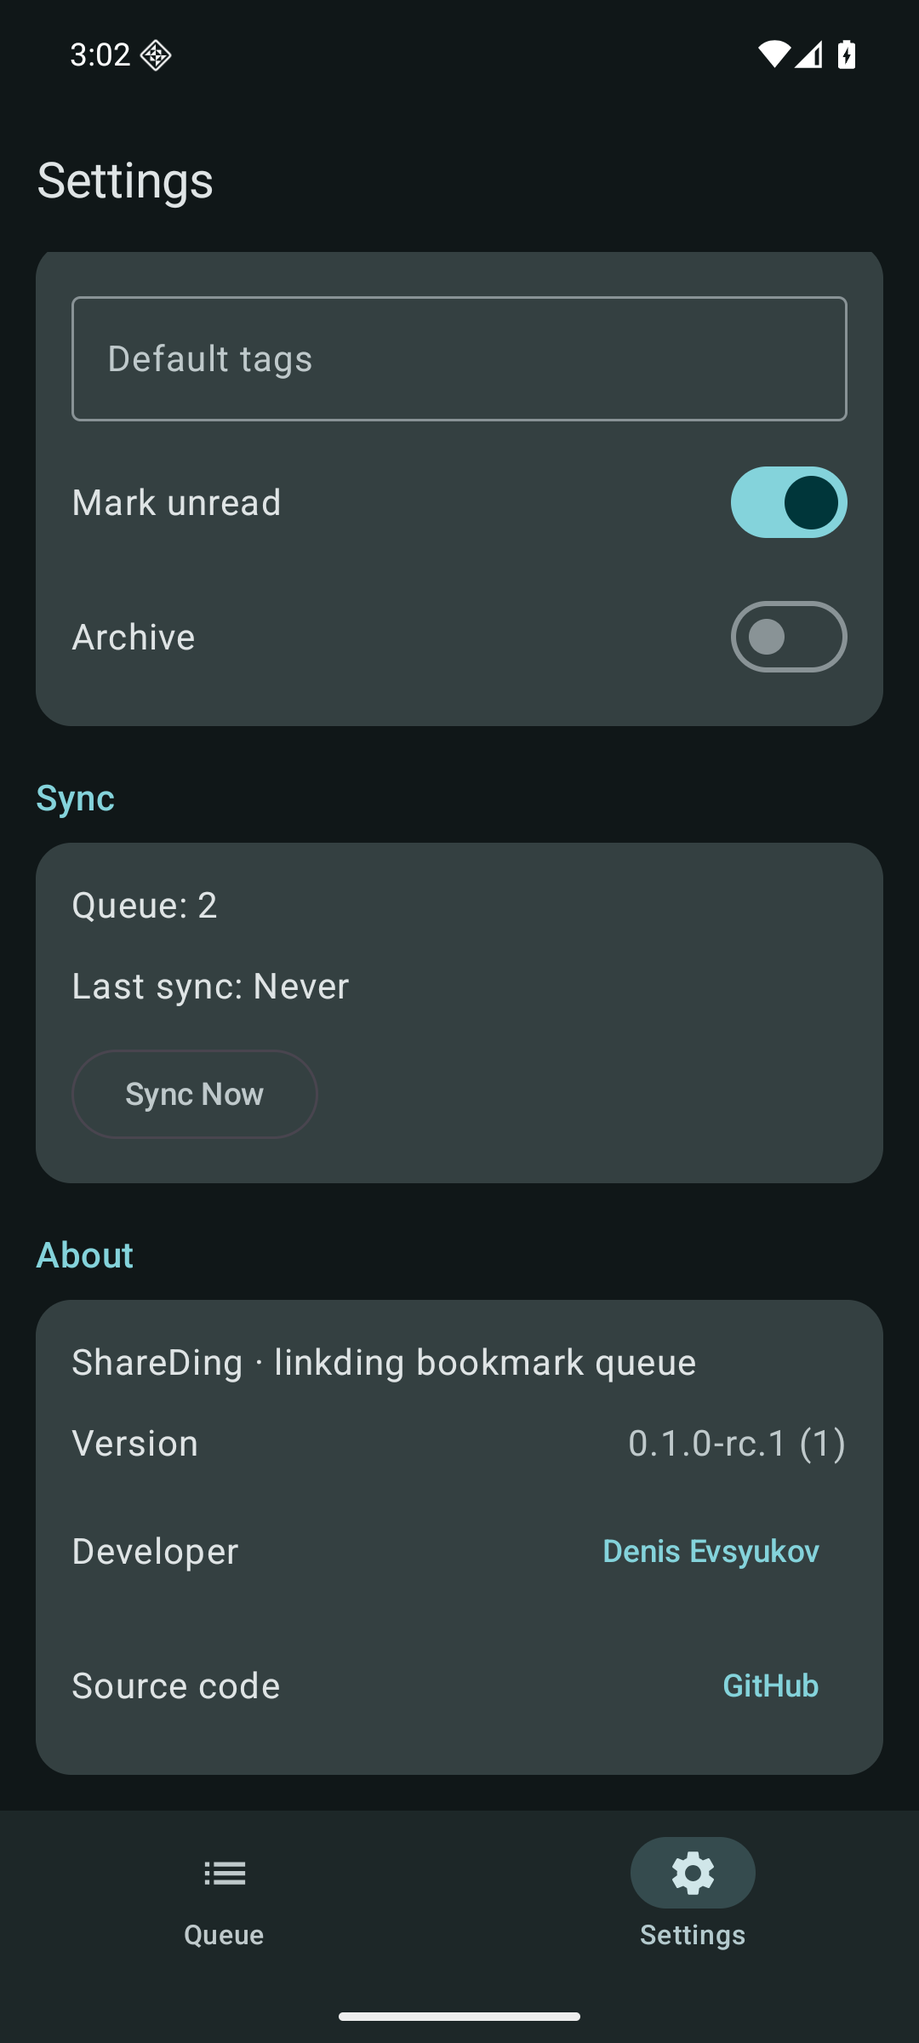
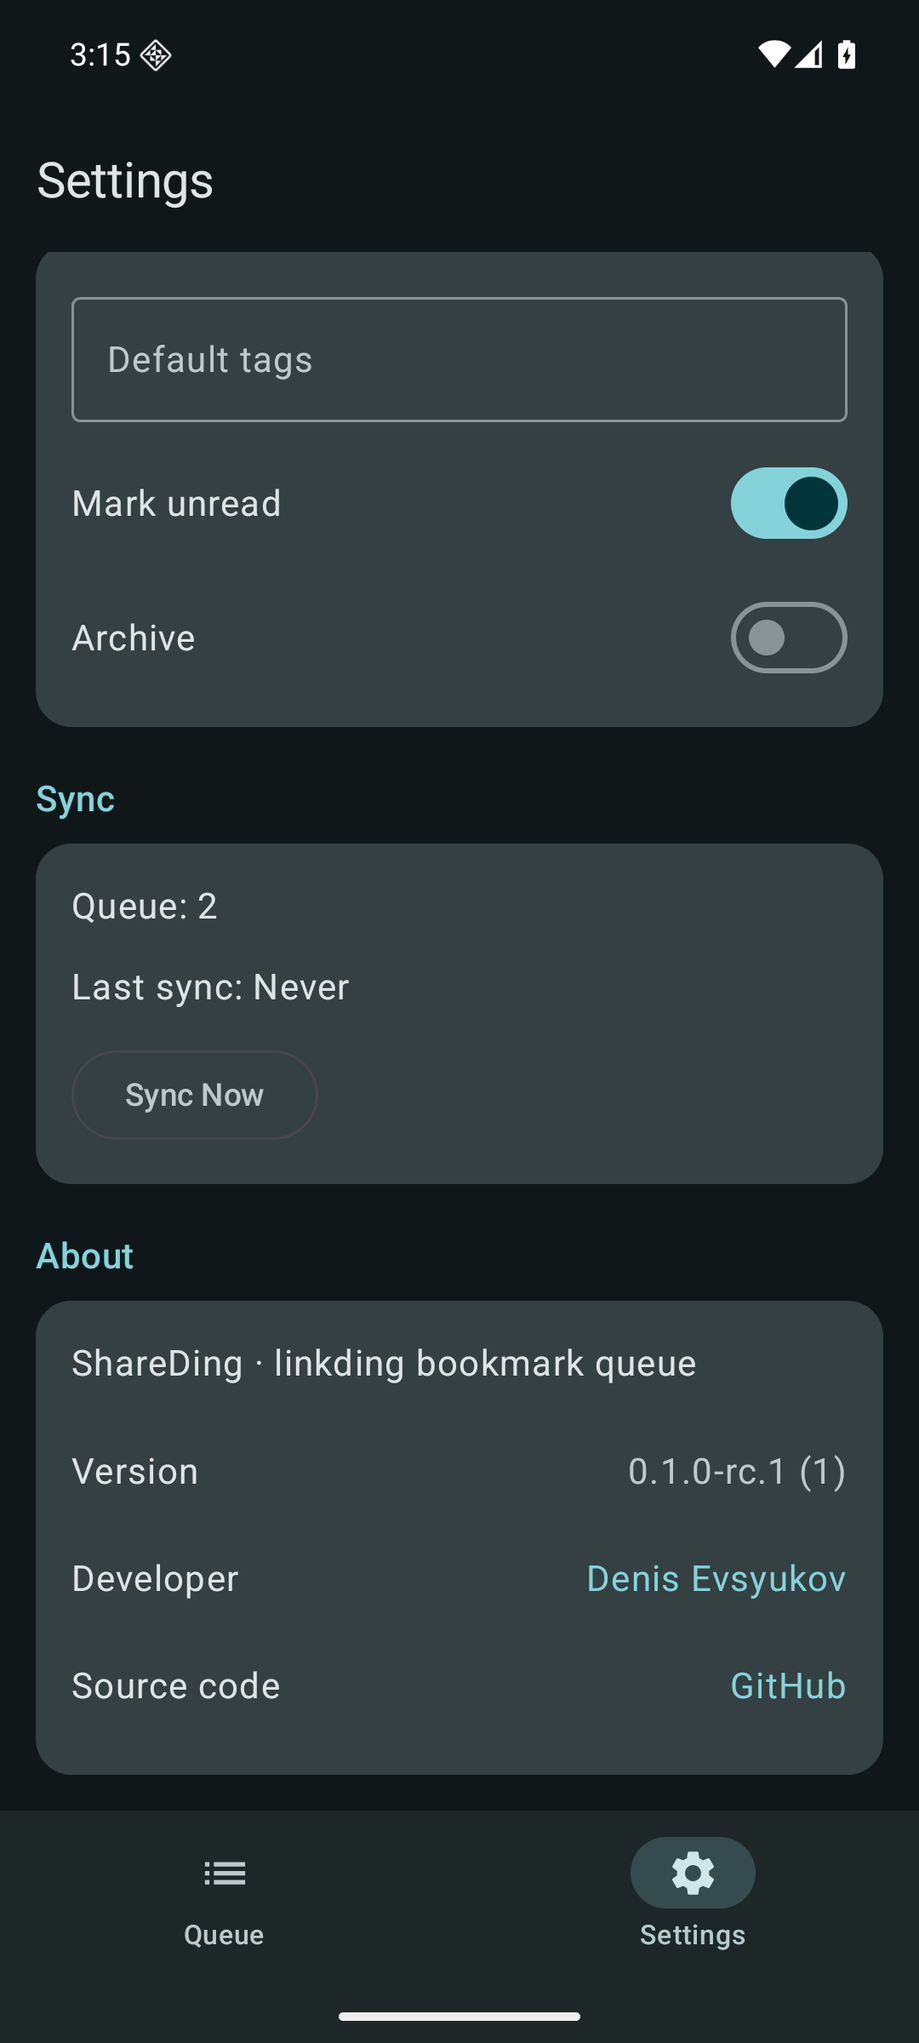
feat(share): save links without opening app screen
Route text shares to a translucent activity that shows a Toast after
saving to the local queue and returns to the sending app. Preserve URL
handling from both text and stream extras.

Tighten the About rows, refresh its screenshot, and document the Share
flow in the README and specification. Cover Share target resolution,
persistence, invalid input, stream URLs, and About spacing in UI tests.

diff --git a/app/src/main/java/org/evsyukov/shareding/MainActivity.kt b/app/src/main/java/org/evsyukov/shareding/MainActivity.kt
@@ -1,17 +1,14 @@
 package org.evsyukov.shareding
 
 import android.content.Context
-import android.content.Intent
 import android.net.ConnectivityManager
 import android.net.Network
 import android.os.Bundle
 import android.text.format.DateUtils
-import android.view.HapticFeedbackConstants
 import android.widget.Toast
 import androidx.activity.compose.BackHandler
 import androidx.activity.ComponentActivity
 import androidx.activity.compose.setContent
-import androidx.compose.foundation.Image
 import androidx.compose.foundation.isSystemInDarkTheme
 import androidx.compose.foundation.rememberScrollState
 import androidx.compose.foundation.layout.Arrangement
@@ -22,12 +19,14 @@ import androidx.compose.foundation.layout.Spacer
 import androidx.compose.foundation.layout.fillMaxSize
 import androidx.compose.foundation.layout.fillMaxWidth
 import androidx.compose.foundation.layout.height
+import androidx.compose.foundation.layout.heightIn
 import androidx.compose.foundation.layout.imePadding
 import androidx.compose.foundation.layout.padding
 import androidx.compose.foundation.layout.size
 import androidx.compose.foundation.lazy.LazyColumn
 import androidx.compose.foundation.lazy.items
 import androidx.compose.foundation.shape.RoundedCornerShape
+import androidx.compose.foundation.clickable
 import androidx.compose.foundation.verticalScroll
 import androidx.compose.material.icons.Icons
 import androidx.compose.material.icons.automirrored.filled.List
@@ -71,12 +70,9 @@ import androidx.compose.ui.Alignment
 import androidx.compose.ui.Modifier
 import androidx.compose.ui.platform.LocalContext
 import androidx.compose.ui.platform.LocalUriHandler
-import androidx.compose.ui.res.painterResource
 import androidx.compose.ui.text.style.TextOverflow
 import androidx.compose.ui.unit.dp
-import androidx.lifecycle.lifecycleScope
 import androidx.core.view.WindowCompat
-import androidx.core.content.IntentCompat
 import java.text.DateFormat
 import java.util.Date
 import kotlinx.coroutines.Dispatchers
@@ -93,7 +89,6 @@ import org.evsyukov.shareding.sync.NetworkRequests
 
 class MainActivity : ComponentActivity() {
     private val container get() = (application as ShareDingApplication).container
-    private var shareMessage by mutableStateOf<String?>(null)
     private val connectivity by lazy { getSystemService(Context.CONNECTIVITY_SERVICE) as ConnectivityManager }
     @Volatile private var networksAtRegistration: Set<Network> = emptySet()
     private val networkCallback = object : ConnectivityManager.NetworkCallback() {
@@ -113,18 +108,9 @@ class MainActivity : ComponentActivity() {
                 }
             }
             ShareDingTheme {
-                val message = shareMessage
-                if (message != null) ShareConfirmation(message)
-                else ShareDingScreen(container)
+                ShareDingScreen(container)
             }
         }
-        if (intent?.action == Intent.ACTION_SEND && savedInstanceState == null) handleShare(intent)
-    }
-
-    override fun onNewIntent(intent: Intent) {
-        super.onNewIntent(intent)
-        setIntent(intent)
-        if (intent.action == Intent.ACTION_SEND) handleShare(intent)
     }
 
     override fun onStart() {
@@ -138,46 +124,6 @@ class MainActivity : ComponentActivity() {
         super.onStop()
     }
 
-    private fun handleShare(intent: Intent) {
-        val text = intent.getStringExtra(Intent.EXTRA_TEXT)
-            ?: IntentCompat.getParcelableExtra(intent, Intent.EXTRA_STREAM, android.net.Uri::class.java)
-                ?.toString().orEmpty()
-        val title = intent.getStringExtra(Intent.EXTRA_TITLE)
-            ?: intent.getStringExtra(Intent.EXTRA_SUBJECT).orEmpty()
-        val url = Urls.sharedText(text)
-        if (url == null) {
-            shareMessage = "No valid HTTP(S) URL"
-            lifecycleScope.launch { kotlinx.coroutines.delay(1400); finish() }
-            return
-        }
-        lifecycleScope.launch {
-            try {
-                val defaults = container.settings.state.value
-                val id = withContext(Dispatchers.IO) {
-                    container.db.bookmarks().insert(Bookmark(url = url, title = title, tags = defaults.defaultTags,
-                        unread = defaults.unread, archived = defaults.archived))
-                }
-                shareMessage = if (id == -1L) "Already in queue" else "Saved to queue"
-                if (id != -1L) window.decorView.performHapticFeedback(HapticFeedbackConstants.VIRTUAL_KEY)
-                runCatching { container.scheduler.enqueue(urgent = true) }
-            } catch (error: Exception) {
-                shareMessage = "Cannot save: ${error.message}"
-            }
-            kotlinx.coroutines.delay(1000)
-            finish()
-        }
-    }
-}
-
-@Composable
-private fun ShareConfirmation(message: String) {
-    Column(Modifier.fillMaxSize(), verticalArrangement = Arrangement.Center,
-        horizontalAlignment = Alignment.CenterHorizontally) {
-        Image(painterResource(R.mipmap.ic_launcher), contentDescription = null,
-            modifier = Modifier.size(96.dp))
-        Spacer(Modifier.height(16.dp))
-        Text(message, style = MaterialTheme.typography.titleLarge)
-    }
 }
 
 @OptIn(ExperimentalMaterial3Api::class)
@@ -529,23 +475,26 @@ private fun SettingsScreen(settings: Settings, queueCount: Int, padding: Padding
         item {
             SettingsGroup("About") {
                 Text("ShareDing · linkding bookmark queue")
-                Row(Modifier.fillMaxWidth(), verticalAlignment = Alignment.CenterVertically,
-                    horizontalArrangement = Arrangement.SpaceBetween) {
-                    Text("Version")
-                    Text(version, color = MaterialTheme.colorScheme.onSurfaceVariant)
-                }
-                Row(Modifier.fillMaxWidth(), verticalAlignment = Alignment.CenterVertically,
-                    horizontalArrangement = Arrangement.SpaceBetween) {
-                    Text("Developer")
-                    TextButton(onClick = { uriHandler.openUri("https://denis.evsyukov.org") }) {
-                        Text("Denis Evsyukov")
+                Column {
+                    Row(Modifier.fillMaxWidth().heightIn(min = 48.dp),
+                        verticalAlignment = Alignment.CenterVertically,
+                        horizontalArrangement = Arrangement.SpaceBetween) {
+                        Text("Version")
+                        Text(version, color = MaterialTheme.colorScheme.onSurfaceVariant)
                     }
-                }
-                Row(Modifier.fillMaxWidth(), verticalAlignment = Alignment.CenterVertically,
-                    horizontalArrangement = Arrangement.SpaceBetween) {
-                    Text("Source code")
-                    TextButton(onClick = { uriHandler.openUri("https://github.com/juev/shareding") }) {
-                        Text("GitHub")
+                    Row(Modifier.fillMaxWidth().heightIn(min = 48.dp)
+                        .clickable { uriHandler.openUri("https://denis.evsyukov.org") },
+                        verticalAlignment = Alignment.CenterVertically,
+                        horizontalArrangement = Arrangement.SpaceBetween) {
+                        Text("Developer")
+                        Text("Denis Evsyukov", color = MaterialTheme.colorScheme.primary)
+                    }
+                    Row(Modifier.fillMaxWidth().heightIn(min = 48.dp)
+                        .clickable { uriHandler.openUri("https://github.com/juev/shareding") },
+                        verticalAlignment = Alignment.CenterVertically,
+                        horizontalArrangement = Arrangement.SpaceBetween) {
+                        Text("Source code")
+                        Text("GitHub", color = MaterialTheme.colorScheme.primary)
                     }
                 }
             }

diff --git a/app/src/androidTest/java/org/evsyukov/shareding/ShareIntentTest.kt b/app/src/androidTest/java/org/evsyukov/shareding/ShareIntentTest.kt
@@ -1,36 +1,87 @@
 package org.evsyukov.shareding
 
 import android.content.Intent
-import androidx.test.core.app.ActivityScenario
+import android.content.pm.PackageManager
+import android.net.Uri
 import androidx.test.ext.junit.runners.AndroidJUnit4
 import androidx.test.platform.app.InstrumentationRegistry
 import kotlinx.coroutines.delay
 import kotlinx.coroutines.runBlocking
 import org.junit.Assert.assertEquals
+import org.junit.Assert.assertNull
+import org.junit.Assert.assertTrue
 import org.junit.Test
 import org.junit.runner.RunWith
 
 @RunWith(AndroidJUnit4::class)
 class ShareIntentTest {
+    @Test fun appearsInTextShareTargets() {
+        val context = InstrumentationRegistry.getInstrumentation().targetContext
+        val intent = Intent(Intent.ACTION_SEND).apply { type = "text/plain" }
+        @Suppress("DEPRECATION")
+        val targets = context.packageManager.queryIntentActivities(intent, PackageManager.MATCH_DEFAULT_ONLY)
+        assertTrue(targets.any { it.activityInfo.packageName == context.packageName &&
+            it.activityInfo.name == ShareActivity::class.java.name })
+    }
+
     @Test fun sharePersistsWithoutServerConfiguration() = runBlocking {
         val context = InstrumentationRegistry.getInstrumentation().targetContext
         val url = "https://example.com/test-${System.nanoTime()}"
-        val intent = Intent(context, MainActivity::class.java).apply {
+        val intent = Intent(context, ShareActivity::class.java).apply {
             action = Intent.ACTION_SEND
             type = "text/plain"
             putExtra(Intent.EXTRA_TEXT, url)
+            addFlags(Intent.FLAG_ACTIVITY_NEW_TASK)
         }
-        ActivityScenario.launch<MainActivity>(intent).use {
-            val dao = (context.applicationContext as ShareDingApplication).container.db.bookmarks()
-            var found = false
-            for (attempt in 0 until 30) {
-                if (dao.findByUrl(url) != null) {
-                    found = true
-                    break
-                }
-                delay(100)
+        context.startActivity(intent)
+        val dao = (context.applicationContext as ShareDingApplication).container.db.bookmarks()
+        var found = false
+        for (attempt in 0 until 30) {
+            if (dao.findByUrl(url) != null) {
+                found = true
+                break
             }
-            assertEquals(true, found)
+            delay(100)
         }
+        assertTrue(found)
+    }
+
+    @Test fun invalidShareDoesNotEnterQueue() = runBlocking {
+        val context = InstrumentationRegistry.getInstrumentation().targetContext
+        val dao = (context.applicationContext as ShareDingApplication).container.db.bookmarks()
+        val invalid = "not-a-url-${System.nanoTime()}"
+        val countBefore = dao.count()
+        val intent = Intent(context, ShareActivity::class.java).apply {
+            action = Intent.ACTION_SEND
+            type = "text/plain"
+            putExtra(Intent.EXTRA_TEXT, invalid)
+            addFlags(Intent.FLAG_ACTIVITY_NEW_TASK)
+        }
+        context.startActivity(intent)
+        InstrumentationRegistry.getInstrumentation().waitForIdleSync()
+        assertEquals(countBefore, dao.count())
+        assertNull(dao.findByUrl(invalid))
+    }
+
+    @Test fun streamUrlStillEntersQueue() = runBlocking {
+        val context = InstrumentationRegistry.getInstrumentation().targetContext
+        val url = "https://example.com/stream-${System.nanoTime()}"
+        val intent = Intent(context, ShareActivity::class.java).apply {
+            action = Intent.ACTION_SEND
+            type = "text/plain"
+            putExtra(Intent.EXTRA_STREAM, Uri.parse(url))
+            addFlags(Intent.FLAG_ACTIVITY_NEW_TASK)
+        }
+        context.startActivity(intent)
+        val dao = (context.applicationContext as ShareDingApplication).container.db.bookmarks()
+        var found = false
+        for (attempt in 0 until 30) {
+            if (dao.findByUrl(url) != null) {
+                found = true
+                break
+            }
+            delay(100)
+        }
+        assertTrue(found)
     }
 }

diff --git a/app/src/main/java/org/evsyukov/shareding/ShareActivity.kt b/app/src/main/java/org/evsyukov/shareding/ShareActivity.kt
@@ -1,0 +1,57 @@
+package org.evsyukov.shareding
+
+import android.content.Intent
+import android.net.Uri
+import android.os.Bundle
+import android.widget.Toast
+import androidx.activity.ComponentActivity
+import androidx.core.content.IntentCompat
+import androidx.lifecycle.lifecycleScope
+import kotlinx.coroutines.CancellationException
+import kotlinx.coroutines.Dispatchers
+import kotlinx.coroutines.launch
+import kotlinx.coroutines.withContext
+import org.evsyukov.shareding.data.Bookmark
+import org.evsyukov.shareding.network.Urls
+
+/** A translucent Share target that leaves the sending app visible until the local save completes. */
+class ShareActivity : ComponentActivity() {
+    private val container get() = (application as ShareDingApplication).container
+
+    override fun onCreate(savedInstanceState: Bundle?) {
+        super.onCreate(savedInstanceState)
+        val text = intent.getStringExtra(Intent.EXTRA_TEXT)
+            ?: IntentCompat.getParcelableExtra(intent, Intent.EXTRA_STREAM, Uri::class.java)
+                ?.toString().orEmpty()
+        val url = Urls.sharedText(text)
+        if (url == null) {
+            showResult("No valid HTTP(S) URL")
+            return
+        }
+        val title = intent.getStringExtra(Intent.EXTRA_TITLE)
+            ?: intent.getStringExtra(Intent.EXTRA_SUBJECT).orEmpty()
+
+        lifecycleScope.launch {
+            val message = try {
+                val defaults = container.settings.state.value
+                val id = withContext(Dispatchers.IO) {
+                    container.db.bookmarks().insert(Bookmark(url = url, title = title,
+                        tags = defaults.defaultTags, unread = defaults.unread,
+                        archived = defaults.archived))
+                }
+                runCatching { container.scheduler.enqueue(urgent = true) }
+                if (id == -1L) "Already in queue" else "Saved to queue"
+            } catch (cancel: CancellationException) {
+                throw cancel
+            } catch (error: Exception) {
+                "Cannot save: ${error.message ?: "unknown error"}"
+            }
+            showResult(message)
+        }
+    }
+
+    private fun showResult(message: String) {
+        Toast.makeText(applicationContext, message, Toast.LENGTH_SHORT).show()
+        finish()
+    }
+}

diff --git a/app/src/androidTest/java/org/evsyukov/shareding/QueueUiTest.kt b/app/src/androidTest/java/org/evsyukov/shareding/QueueUiTest.kt
@@ -18,6 +18,7 @@ import kotlinx.coroutines.withContext
 import org.evsyukov.shareding.data.Bookmark
 import org.junit.Assert.assertNotNull
 import org.junit.Assert.assertNull
+import org.junit.Assert.assertTrue
 import org.junit.Rule
 import org.junit.Test
 import org.junit.runner.RunWith
@@ -119,5 +120,11 @@ class QueueUiTest {
         compose.onNodeWithText("${info.versionName} (${info.longVersionCode})").assertIsDisplayed()
         compose.onNodeWithText("Denis Evsyukov").assertHasClickAction()
         compose.onNodeWithText("GitHub").assertHasClickAction()
+        val developerY = compose.onNodeWithText("Denis Evsyukov")
+            .fetchSemanticsNode().boundsInRoot.center.y
+        val sourceY = compose.onNodeWithText("GitHub")
+            .fetchSemanticsNode().boundsInRoot.center.y
+        assertTrue("About rows should have even spacing",
+            sourceY - developerY <= 56f * activity.resources.displayMetrics.density)
     }
 }

diff --git a/docs/specs/share-to-linkding.md b/docs/specs/share-to-linkding.md
@@ -10,11 +10,11 @@ The app accepts a link from Android's Share menu or its add form, saves it on th
 
 ## Requirements
 
-- R1. Accept HTTP(S) URLs from `ACTION_SEND` and save each entry to the local database before making a network request. Show `Saved to queue` only after a successful local write. Do not show it for an invalid URL or database error.
+- R1. Register as a `text/plain` `ACTION_SEND` target. Accept HTTP(S) URLs and save each entry to the local database before making a network request. Keep the sending app visible through a transparent Share activity, show a short `Saved to queue` Toast only after a successful local write, and then finish. Show distinct feedback for invalid URLs, duplicates, or local save errors.
 - R2. Send queued entries when a network becomes available. The server may be on a LAN or VPN without public internet access. `NET_CAPABILITY_VALIDATED` must not block such servers. Check linkding availability with an API request before sending.
 - R3. Keep unsent entries after a timeout, HTTP error, connection error, or restart, and keep retrying without a fixed limit. WorkManager uses exponential backoff starting at 30 seconds; Android may run the work later. A successful `POST /api/bookmarks/` removes only the entry that was sent.
 - R4. Let users add a URL manually with title, description, and tags. Fill in the page title when it can be retrieved. Settings include the server URL, API token, default tags, unread/archive options, Test Connection, Sync Now, last successful sync time, and queue count. Keep the connection result visible until the server URL or token changes. The queue shows status chips, Retry for failed entries, refresh, and an empty state with an Add bookmark action.
-- R5. Keep the two Queue/Settings tabs, full-screen Add Bookmark form, icon, and brief confirmation from the iOS design. About shows the installed version and links to the developer's website as on iOS, plus the Android source repository. Use native Android controls, Light/Dark themes, and screen reader labels.
+- R5. Keep the two Queue/Settings tabs, full-screen Add Bookmark form, icon, and brief Share confirmation from the iOS design. About shows the installed version and compact rows linking to the developer's website as on iOS and the Android source repository. Use native Android controls, Light/Dark themes, and screen reader labels.
 - R6. Crashes, stopped background work, and reboots must not lose entries. Concurrent additions and manual sync must not remove an entry without confirmed delivery. Adding a duplicate URL must not change an entry while it is being sent.
 - R7. Allow manual removal of one entry only after user confirmation. Canceling the confirmation keeps the entry.
 - R8. Set `minSdk` to 28. Verify behavior on Android 9 and a current Android version.
@@ -34,7 +34,7 @@ Kotlin and Jetpack Compose provide the Android UI; Room stores the queue; WorkMa
 
 ## Verification scenarios
 
-- R1, R2: Share a URL without a network or server settings. The entry appears in the queue and is sent after network access and server settings become available.
+- R1, R2: Share a URL without a network or server settings. ShareDing appears in the text Share menu, keeps the sending app visible, saves the entry, shows a short Toast, and sends it after network access and server settings become available. Sharing invalid text leaves the queue unchanged.
 - R3, R6: Return 401/5xx from the API, drop the connection, or stop the worker. The entry remains queued and is removed only after a successful POST. A new link during backoff starts an earlier attempt.
 - R2, R9: Reach a linkding server using HTTP or HTTPS only through LAN/VPN. Delivery works without public internet validation; HTTP shows a warning.
 - R4, R5: The add form, Queue, and Settings perform their actions and show the agreed states in Light/Dark themes.

diff --git a/README.md b/README.md
@@ -13,7 +13,7 @@ Saving a link should not depend on whether your linkding server is reachable at 
 ## How it works
 
 1. Share an HTTP(S) link to ShareDing from a browser or another app, or enter it in the Add Bookmark form. You can save links before configuring the server.
-2. ShareDing writes the bookmark to a Room database on the device before attempting a network request. The brief `Saved to queue` confirmation means the local write succeeded.
+2. ShareDing writes the bookmark to a Room database on the device before attempting a network request. The browser stays visible; a short `Saved to queue` Toast appears only after the local write succeeds. Invalid links and local save errors get a different message.
 3. WorkManager runs sync when a network is available. ShareDing checks the configured linkding server itself, so a server reachable through LAN or VPN does not need public internet access.
 4. After linkding accepts the bookmark, ShareDing removes it from the queue. Connection and server errors leave it queued for another attempt. Retries use exponential backoff starting at 30 seconds; Android may run them later than the scheduled time.
 
@@ -31,7 +31,7 @@ These screens show the current development build on an Android 16 emulator. The 
 
 1. Install the APK using [Obtainium](https://github.com/ImranR98/Obtainium) or download it from [Releases](https://github.com/juev/shareding/releases). See [Install and update](#install-and-update) for details.
 2. In Settings, enter your linkding server URL and API token, then tap **Save**. Use **Test Connection** to check the server. HTTPS is recommended; HTTP is also supported for servers on a trusted LAN or VPN.
-3. Share a link to ShareDing from another app, or tap `+` in Queue to add one manually. The full-screen form accepts a URL, title, description, and tags; **Fetch title** can fill in the page title.
+3. Open a browser's Share menu and select **ShareDing**. It returns to the browser after a short confirmation without opening the main app screen. You can also tap `+` in Queue to add a link manually. The full-screen form accepts a URL, title, description, and tags; **Fetch title** can fill in the page title.
 4. Check Queue for waiting, sending, or failed bookmarks. Failed entries have a **Retry** action; **Sync Now** in Settings requests another attempt. Removing an entry requires confirmation.
 
 Settings also lets you set default tags and choose whether new bookmarks are marked unread or archived. It shows the queue count, last successful sync, latest error, and an inline Test Connection result. The API token is encrypted using a key held in Android Keystore. If you use HTTP, Settings warns that the token and bookmark data are sent without TLS.
